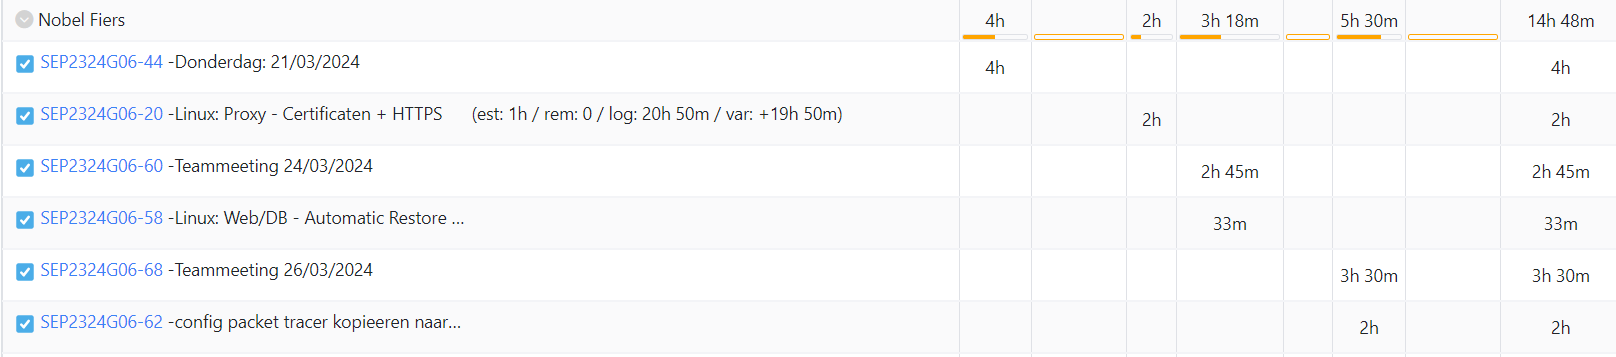
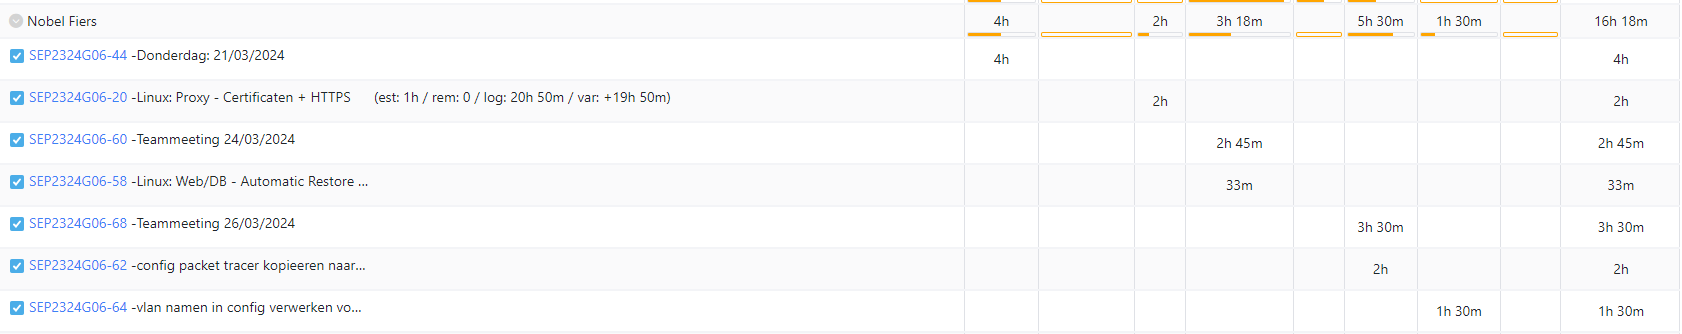
opvolgingsformulier aangevuld nobel

diff --git a/opvolging/Opvolginsformulier 5/opvolgingsrapport-5.md b/opvolging/Opvolginsformulier 5/opvolgingsrapport-5.md
@@ -25,25 +25,29 @@
 
 <!-- Voeg hier een screenshot toe van de huidige toestand van het kanban bord. -->
 
-![alt text](./img/Kanban  1.png)
-![alt text](./img/Kanban  2.png)
-![alt text](./img/Kanban  3.png)
-![alt text](./img/Kanban  4.png)
-![alt text](./img/Kanban  5.png)
-![alt text](./img/Kanban  6.png)
-![alt text](./img/Kanban  7.png)
-![alt text](./img/Kanban  8.png)
+![alt text](./img/Kanban 1.png)
+![alt text](./img/Kanban 2.png)
+![alt text](./img/Kanban 3.png)
+![alt text](./img/Kanban 4.png)
+![alt text](./img/Kanban 5.png)
+![alt text](./img/Kanban 6.png)
+![alt text](./img/Kanban 7.png)
+![alt text](./img/Kanban 8.png)
 
 #### Tijdsregistratie
 
 <!-- Voeg hier een screenshot toe van het teamoverzicht van de tijdregistratie, met totaal per student en team -->
+
 ![alt text](./img/jira.png)
 
 #### Cumulatief flow diagram
 
 <!-- Voeg hier een screenshot toe van het cumulatief flow diagram voor de periode van het rapport. -->
+
 ![alt text](./img/diagram.png)
+
 <!-- Voeg hier een screenshot toe van het cumulatief flow diagram voor de volledige periode van het project. -->
+
 ![alt text](./img/cumulatief.png)
 
 ### Brent De Clercq
@@ -85,9 +89,12 @@ Commits
 
 <!-- Voeg hier een overzicht toe van gerealiseerde taken inclusief links naar relevante commits/documenten. -->
 
-- ...
+- Packet tracer bestanden overgebracht naar de tftp en opgekuist.
 
 ![alt text](./img/nobel.png)
+
+- [fde6c4](https://github.com/HoGentTIN/sep2324-gent-g06/commit/fde6c41136637a66f63285a866692667e08f7d96)
+
 <!-- Voeg hier een screenshot van het individueel tijdregistratierapport, met overzicht van elke taak en bijhorende uren. -->
 
 ### Julie De Witte
@@ -104,7 +111,6 @@ Commits
 - [1619ecb](https://github.com/HoGentTIN/sep2324-gent-g06/commit/1619ecb71702df4cb1ddae7095ee6230212cc58e)
 - [89d3327](https://github.com/HoGentTIN/sep2324-gent-g06/commit/89d3327657fc178cd46c3c3698c5fa23e52cda43)
 
-
 <!-- Voeg hier een screenshot van het individueel tijdregistratierapport, met overzicht van elke taak en bijhorende uren. -->
 
 ### Rayane Yousti
@@ -114,6 +120,7 @@ Commits
 - ...
 
 ![alt text](./img/rayane.png)
+
 <!-- Voeg hier een screenshot van het individueel tijdregistratierapport, met overzicht van elke taak en bijhorende uren. -->
 
 ## Wat plan je volgende periode te doen?
@@ -122,8 +129,8 @@ Commits
 
 <!-- Voeg hier de doelstellingen toe voor volgende periode. -->
 
-- ...
-- ...
+- TFTP werkende krijgen
+- Windows verder uitwerken
 
 ### Brent De Clercq
 
@@ -141,7 +148,7 @@ Commits
 
 <!-- Voeg hier de individuele doelstellingen toe voor volgende periode. -->
 
-- ...
+- tftp server bestanden verder uittesten.
 
 ### Julie De Witte
 

diff --git a/opvolging/Opvolginsformulier 6/opvolgingsrapport-6.md b/opvolging/Opvolginsformulier 6/opvolgingsrapport-6.md
@@ -24,18 +24,25 @@
 #### KanBan
 
 <!-- Voeg hier een screenshot toe van de huidige toestand van het kanban bord. -->
+
 ![alt text](./img/Kanban.png)
 
 #### Tijdsregistratie
 
 <!-- Voeg hier een screenshot toe van het teamoverzicht van de tijdregistratie, met totaal per student en team -->
+
 ![alt text](./img/jira.png)
+
 #### Cumulatief flow diagram
 
 <!-- Voeg hier een screenshot toe van het cumulatief flow diagram voor de periode van het rapport. -->
+
 ![alt text](./img/diagram.png)
+
 <!-- Voeg hier een screenshot toe van het cumulatief flow diagram voor de volledige periode van het project. -->
+
 ![alt text](./img/diagramCummulatief.png)
+
 ### Brent De Clercq
 
 <!-- Voeg hier een overzicht toe van gerealiseerde taken inclusief links naar relevante commits/documenten. -->
@@ -48,7 +55,7 @@
 - [9c079e1](https://github.com/HoGentTIN/sep2324-gent-g06/commit/9c079e1c96cd1a33e3a92e2f9656894abbd078b6)
 - [68dc1bb](https://github.com/HoGentTIN/sep2324-gent-g06/commit/68dc1bba25635a038d4fe8e9af348fef3a1e1bdc)
 - [7295b6f](https://github.com/HoGentTIN/sep2324-gent-g06/commit/7295b6f3abb826c75dd88652c946bae937cb2463)
-- [0f80a54]https://github.com/HoGentTIN/sep2324-gent-g06/commit/0f80a54bf458e7b3cb942eb995156638aa7852bd)
+- [0f80a54](https://github.com/HoGentTIN/sep2324-gent-g06/commit/0f80a54bf458e7b3cb942eb995156638aa7852bd)
 - [02592b2](https://github.com/HoGentTIN/sep2324-gent-g06/commit/02592b2be3412c77b9ba8a85088575dab2b58640)
 - [2d68ad0](https://github.com/HoGentTIN/sep2324-gent-g06/commit/2d68ad0b72dc79c14f47af954baba85691c1288b)
 - [4749555](https://github.com/HoGentTIN/sep2324-gent-g06/commit/4749555f0abf96acdb0bf93c587651c725511e80)
@@ -79,9 +86,14 @@
 
 <!-- Voeg hier een overzicht toe van gerealiseerde taken inclusief links naar relevante commits/documenten. -->
 
-- ...
+- problemen met packet tracer proberen oplossen en vermijden
+- meegeholpen bij algemene groepsproblemen
+
 ![alt text](./img/Nobel.png)
-<!-- Voeg hier een screenshot van het individueel tijdregistratierapport, met overzicht van elke taak en bijhorende uren. -->
+
+  <!-- Voeg hier een screenshot van het individueel tijdregistratierapport, met overzicht van elke taak en bijhorende uren. -->
+
+- geen commit aangezien het meeste oftewel nog op een pc staat of een fysieke opstelling was.
 
 ### Julie De Witte
 
